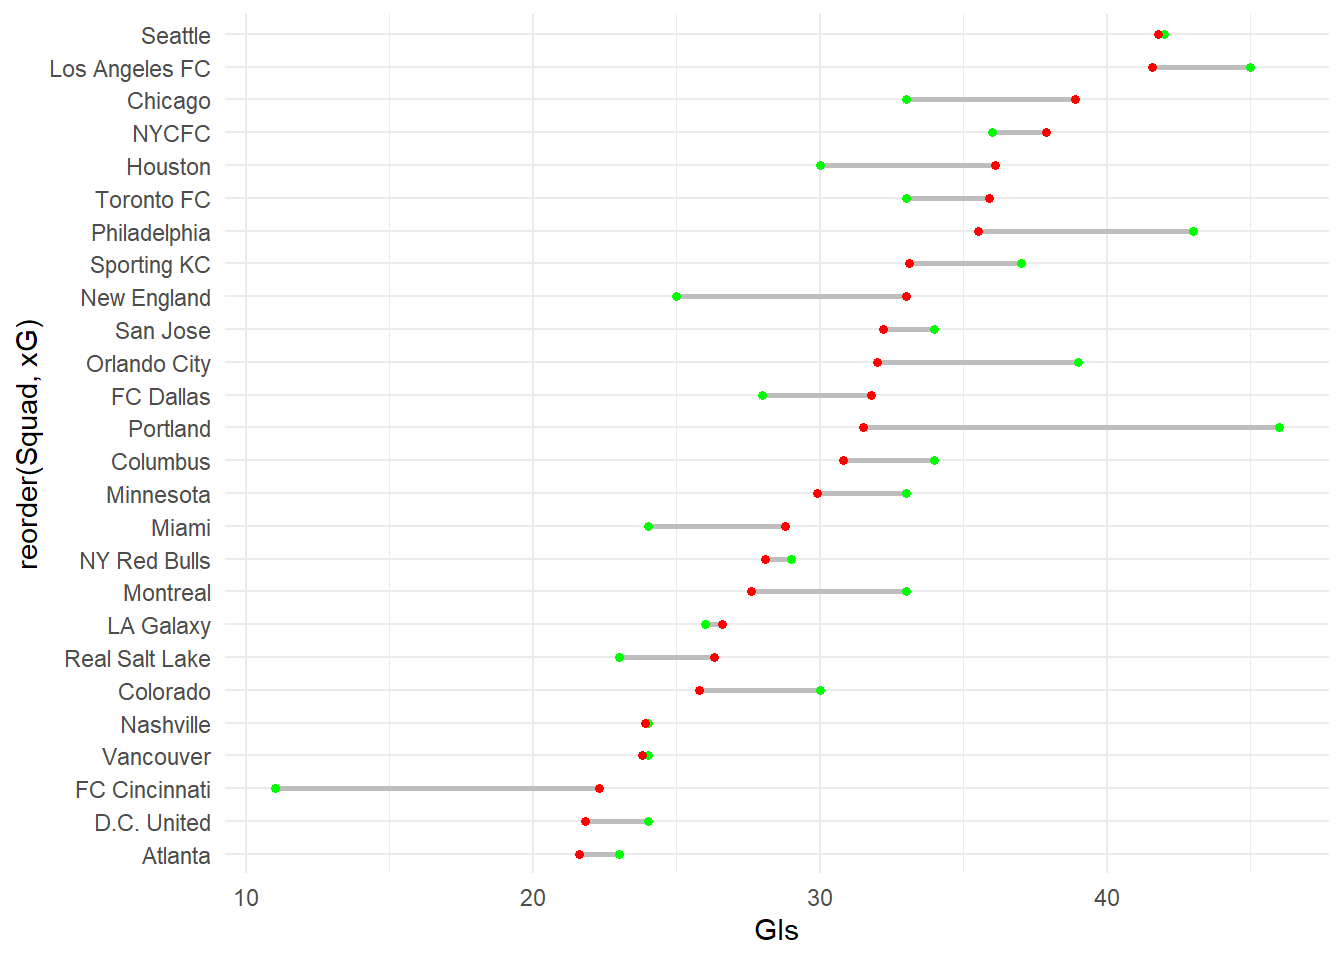
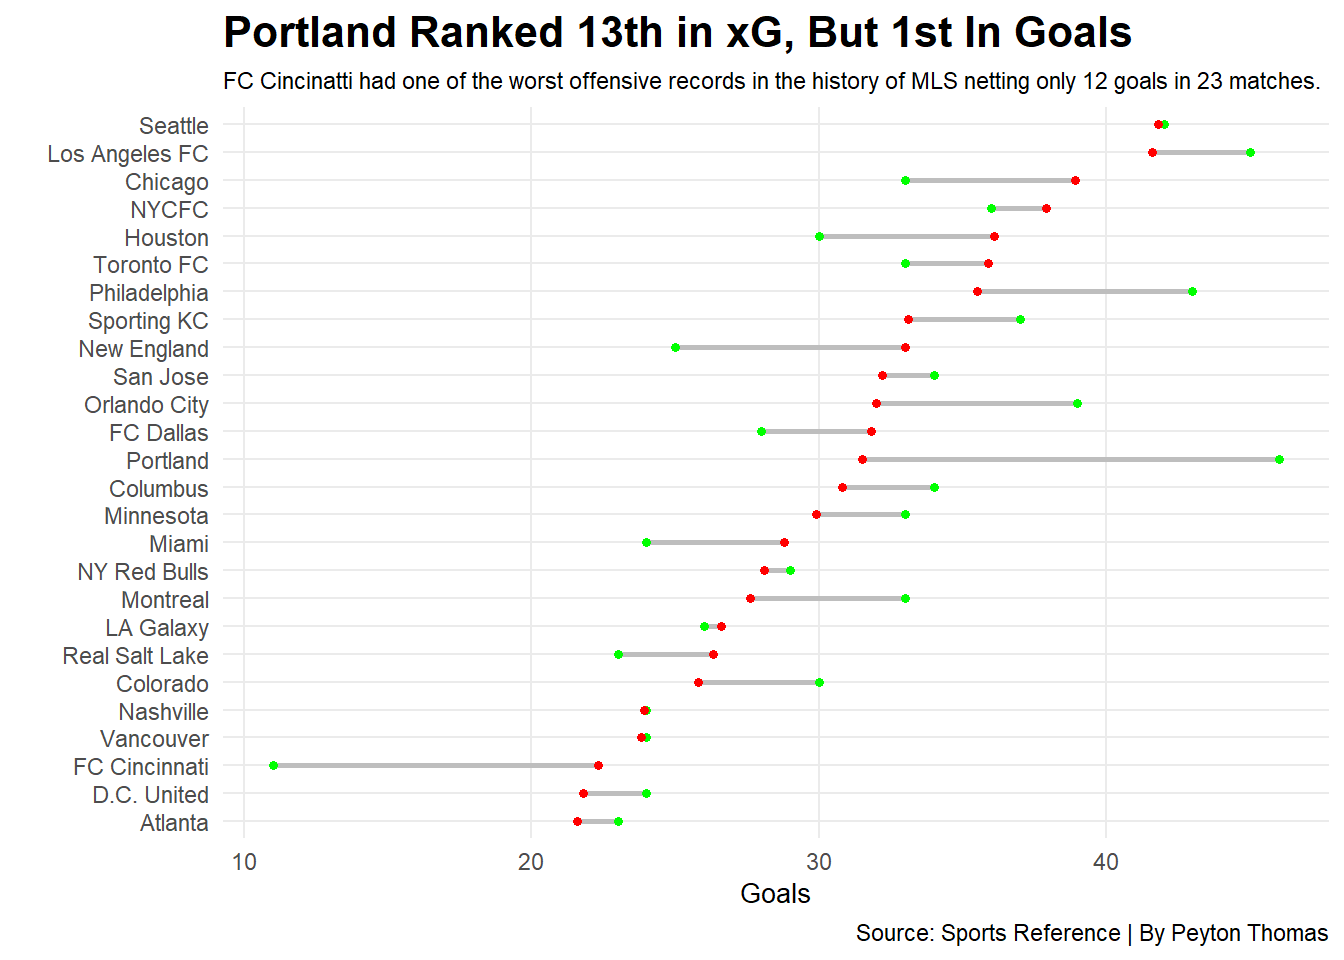
Edits

diff --git a/2021/04/20/where-expected-goals-falls-short/index.html b/2021/04/20/where-expected-goals-falls-short/index.html
@@ -62,7 +62,7 @@
 
   <article class="article">
     
-    <span class="article-duration">7 min read</span>
+    <span class="article-duration">8 min read</span>
     
 
     <h1 class="article-title">Where Expected Goals Falls Short</h1>
@@ -76,8 +76,8 @@
 <script src="/2021/04/20/where-expected-goals-falls-short/index_files/header-attrs/header-attrs.js"></script>
 
 
-<p>Recently across the soccer world. Fans have been accustomed to an “Expected Goals(xG)” metric attached to each team which represents how many goals that team should be expected to score over the course of the game. The metric has been created by assigning each shot a team takes a value on a scale from 0 to 1 based on how likely that shot would be a goal. The factors included in each shot includes the distance, position of defenders, type and speed of pass, type of shot, shot angles and other aspects.</p>
-<p>Now that xG has been introduced into the MLS throughout the 2020 regular season, we can take a look at how each team performs compared to how many goals they were expected to both score and concede over the course of the season. We can then take these comparisons and make assumptions about where the accuracy of xG falls short based on how different teams play.</p>
+<p>Recently across the soccer world, fans have been accustomed to an “Expected Goals(xG)” metric attached to both sides in any particular match. xG represents how many goals that team should be expected to score over the course of the game. The metric has been created by assigning each shot a team takes a value on a scale from 0 to 1 based on how likely that shot would be a goal. The factors included in each shot includes the distance, position of defenders, type and speed of pass, type of shot, shot angles and other aspects.</p>
+<p>Expected goals has now been introduced into the MLS, and throughout the 2020 regular season. We can take a look at how each team performs compared to how many goals they were expected to both score and concede in each of their matches. Then take these comparisons and make assumptions about where the accuracy of xG falls short based on how different teams play.</p>
 <p>Lets get stuck in.</p>
 <pre class="r"><code>library(tidyverse)
 library(ggalt)
@@ -94,14 +94,20 @@ TeamAg &lt;- read_csv(&quot;vs-all.csv&quot;)</code></pre>
     size = 1,
     color = &quot;grey&quot;,
     colour_x = &quot;green&quot;,
-    colour_xend = &quot;red&quot;) + 
-  theme_minimal()</code></pre>
+    colour_xend = &quot;red&quot;) + theme_minimal() +
+  labs(x= &quot;Goals&quot;, y= &quot;&quot;, title=&quot;Portland Ranked 13th in xG, But 1st In Goals&quot;, subtitle=&quot;FC Cincinatti had one of the worst offensive records in the history of MLS netting only 12 goals in 23 matches.&quot;, caption=&quot;Source: Sports Reference | By Peyton Thomas&quot;)  +
+  theme(
+    plot.title = element_text(size = 16, face = &quot;bold&quot;),
+    axis.title = element_text(size = 10), 
+    plot.subtitle = element_text(size=8.5), 
+    panel.grid.minor = element_blank()
+    )</code></pre>
 <p><img src="/2021/04/20/where-expected-goals-falls-short/index_files/figure-html/unnamed-chunk-2-1.png" width="672" />
 Leading the way in expected goals is Seattle with 41.8, and they scored exactly the amount of goals that you would expect by using xG, with 42. However, as we make our way down the list, we discover a distinct set of outliers. Clubs such as Philadelphia or Portland, blew their expected goals ratings out of the water, while other clubs such as New England and FC Cincinnati fell well short of their expected mark.</p>
-<p>Starting with the clubs who outperformed their xG metric, what do they have in common? Well, first of both were higher seeds in the playoffs, shocker. Teams who score have more success. But what else? Something that could point closer to the roots of the metric. Coaching, the head coaches for both of these teams are very experienced and highly regarded throughout MLS. Philadelphia’s Jim Curtain won manager of the year.</p>
+<p>Starting with the clubs who outperformed their xG metric, what do they have in common? Well, first of both were higher seeds in the playoffs, shocker. Teams who score have more success. But what else? Something that could point closer to the roots of the metric. Coaching, the head coaches for both of these teams are very experienced and highly regarded throughout MLS. Philadelphia’s Jim Curtain also won manager of the year.</p>
 <p>Maybe pressure? Both teams press high up on the pitch, forcing mistakes out of their opponents. When their opponents made mistakes both Philly and Portland were clinical. This creates a dynamic where more goals are scored on less chances.</p>
-<p>On the flip side of the coin, New England and FC Cincinnati had trouble putting the ball in the back of the net. New England made a run in the playoffs due to some healthy key attacking players they didn’t have over most of the regular season. While Cincy, well they just don’t have much attacking talent at all. Better attackers finish more chances, worse attackers miss the easy ones.</p>
-<p>However there is also a defensive factor here. Similarly to expected goals going forward, keeping those easy goals out is also an art.</p>
+<p>On the flip side of the coin, New England and FC Cincinnati had trouble putting the ball in the back of the net. New England made a run in the playoffs due to some healthy key attacking players they didn’t have available for selection most of the regular season. While Cincy, well Cincy just don’t have much attacking talent at all. Better attackers finish more chances, worse attackers miss the easy ones.</p>
+<p>There is also a defensive factor here. Similarly to putting goals away going forward, keeping easy goals out is also an art.</p>
 <pre class="r"><code>ggplot() + 
   geom_dumbbell(
     data=TeamAg, 
@@ -109,27 +115,30 @@ Leading the way in expected goals is Seattle with 41.8, and they scored exactly 
     size = 1,
     color = &quot;grey&quot;,
     colour_x = &quot;green&quot;,
-    colour_xend = &quot;red&quot;) + 
-  theme_minimal()</code></pre>
+    colour_xend = &quot;red&quot;) + theme_minimal() +
+  labs(x= &quot;Goals Allowed&quot;, y= &quot;&quot;, title=&quot;Philadelphia Won The Supporters Shield Behind An Impressive Back Line&quot;, subtitle=&quot;The two teams who won silverware in 2020 ranked 1st and 2nd in total goals conceded.&quot;, caption=&quot;Source: Sports Reference | By Peyton Thomas&quot;)  +
+  theme(
+    plot.title = element_text(size = 12, face = &quot;bold&quot;),
+    axis.title = element_text(size = 10), 
+    plot.subtitle = element_text(size=9), 
+    panel.grid.minor = element_blank()
+    )</code></pre>
 <p><img src="/2021/04/20/where-expected-goals-falls-short/index_files/figure-html/unnamed-chunk-3-1.png" width="672" />
 Seattle leads the way again, expected to only concede 20.9 goals, and actually conceding 22. But again, we see some similar outliers on the defensive side.</p>
-<p>Columbus, Minnesota, and again Philadelphia did a great job avoiding many of the chances they faced, while San Jose and the LA Galaxy struggled and keeping it clean at the back.</p>
-<p>Between the clubs who outperformed the mark, both Columbus and Philadelphia had their goalkeeper named on the shortlist for the GK of the Year award, with Philly’s Andre Blake winning. Minnesota also is renown across the league for defensive organization under defensive mastermind Adrian Heath. All 3 clubs also made the playoffs.</p>
-<p>On to the clubs who aren’t so sharp. LA Galaxy are a club who cares about attack. Over the course of the year, organization seemed a problem which was never addressed, and teams were able to play through and convert their chances.</p>
-<p>San Jose underperforming defensively is like the sky being blue, certain. Under head coach Matías Almeyda, the Quakes have been repeatedly criticized for their man on man, aggressive style of defending. The style of extremely unique to only them and is absolutely perfect for avoiding expected goals. Players on San Jose are told to jump every pass or take every risk on each of the opponents chances. This manifests into either a good defense play and no shot(0.0 xG), or a mishap and a very clear shot at the net, limiting the expected goals for your opponent, while maximizing actual goals. Congrats San Jose, you win this one.</p>
-<p>However, we’re looking for an overarching theme. Regardless of attack or defense, what is the one wild card that makes teams overperform or underperform?</p>
-<p>Instead of staying with expected goals, lets get even broader. Non-penalty expected goals, plus expected assists, to identify a broader ability to score, then subtracted by the opposing non-penalty expected goals, plus their expected assists. Our formula looks like this.</p>
+<p>Columbus, Minnesota, and again Philadelphia did a great job avoiding many of the chances they faced, while San Jose and the LA Galaxy struggled keeping it clean at the back.</p>
+<p>Between the clubs who outperformed the mark, both Columbus and Philadelphia both had their goalkeeper named on the shortlist for the GK of the Year award, with Philly’s Andre Blake winning. Minnesota also is renown across the league for defensive organization under tactically sound manager Adrian Heath. All 3 clubs also made the playoffs.</p>
+<p>On to the clubs who aren’t so sharp. The 2020 LA Galaxy were a club who cared about attack. Over the course of the year, defensive organization seemed a problem which was never addressed, and teams were able to play through and convert their chances with ease.</p>
+<p>San Jose underperforming defensively is like the sky being blue, certain. Under head coach Matías Almeyda, the Quakes have been repeatedly criticized for their man on man, aggressive style of defending. The style is unique to only them, at least in MLS, and is absolutely perfect for avoiding expected goals. Players on San Jose are specifically instructed to jump every pass or take every risk on every chance the opposing side gets. This manifests into either a good defense play and no shot(0.0 xG), or a mishap and a very clear shot at the net, limiting the expected goals for your opponent, while maximizing actual goals. Congrats San Jose, you win this one.</p>
+<p>However, we’re looking for an overarching theme. Regardless of attack or defense, what is the one wild card that can make teams consistently overperform or underperform their xG metric on both sides of the ball?</p>
+<p>Instead of staying with expected goals, lets get even broader. Expected non-penalty goals, plus expected assists, to target a broader ability to score, then subtracted by the opposing expected non-penalty goals, plus their expected assists. Our formula looks like this.</p>
 <p>Expected Goals + Assists Differential(EGAD) = (npxG+xA) - (vsnpxG+vsxA)</p>
 <p>Then we will also calculate the Actual Goals + Assists Differential(AGAD)</p>
 <pre class="r"><code>xGF &lt;- TeamFor %&gt;% select(Squad, `G-PK`, Ast, `npxG+xA`)
 xGA &lt;- TeamAg %&gt;% select(Squad, `G-PK`, Ast, `npxG+xA`) %&gt;% 
   rename(`vs npkG` = `G-PK`,
          `vs Ast` = Ast,
-         `vs npxG+xA` = `npxG+xA`)</code></pre>
-<pre class="r"><code>xG &lt;- bind_cols(xGF, xGA)</code></pre>
-<pre><code>## New names:
-## * Squad -&gt; Squad...1
-## * Squad -&gt; Squad...5</code></pre>
+         `vs npxG+xA` = `npxG+xA`)
+xG &lt;- bind_cols(xGF, xGA)</code></pre>
 <pre class="r"><code>xGFull &lt;- xG %&gt;% 
   select(Squad...1, `G-PK`, Ast, `npxG+xA`, `vs npkG`, `vs Ast`, `vs npxG+xA`) %&gt;% 
   rename(Squad = `Squad...1`,
@@ -167,12 +176,12 @@ Underachiever &lt;- xGPlot %&gt;% filter(`ActualG+ADif` - `ExpectedG+ADif` &lt; 
     panel.grid.minor = element_blank()
     )</code></pre>
 <pre><code>## `geom_smooth()` using formula &#39;y ~ x&#39;</code></pre>
-<p><img src="/2021/04/20/where-expected-goals-falls-short/index_files/figure-html/unnamed-chunk-9-1.png" width="672" />
+<p><img src="/2021/04/20/where-expected-goals-falls-short/index_files/figure-html/unnamed-chunk-8-1.png" width="672" />
 Similar suspects, we’ve seen these guys before, but now with a much more complete picture. 3 playoff teams headline our overachievers, while 2 basement dwellers round out the underachievers.</p>
 <p>Both underachievers have had a manager change within the past year. While all three overachieving clubs have stable, experienced, and decorated managers leading their sides.</p>
-<p>Expected goals is a complicated metric, and useful to understand who controlled the majority of any given match. However, once the match is played on the pitch, countless variables come into play to influence the outcome of the match.</p>
-<p>However it is clear to see that good coaching is important. Many in the soccer community argue that managers are fired too often or too quickly. But it seems difficult to believe that many struggling managers will ever manage to win major silverware in their current situations.</p>
-<p>Winning managers get the most out of their squads, the most out of their chances, and the most out of their expected goals rating.</p>
+<p>Expected goals is a complicated metric, and useful to understand who controlled the majority of any given match. However, once the match is played on the pitch, countless variables come into play that influence the outcome.</p>
+<p>However it’s clear to see that good coaching is important. Many in the soccer community argue that managers are fired too often or too quickly. But it seems difficult to believe that many struggling managers will ever manage to win major silverware in their current situations. Many times, quick sackings can be justified.</p>
+<p>Winning managers get the most out of their squads, the most out of their chances, and much less importantly, the most out of their expected goals rating.</p>
 <p>Winning managers win, simple as that.</p>
 
     </div>
